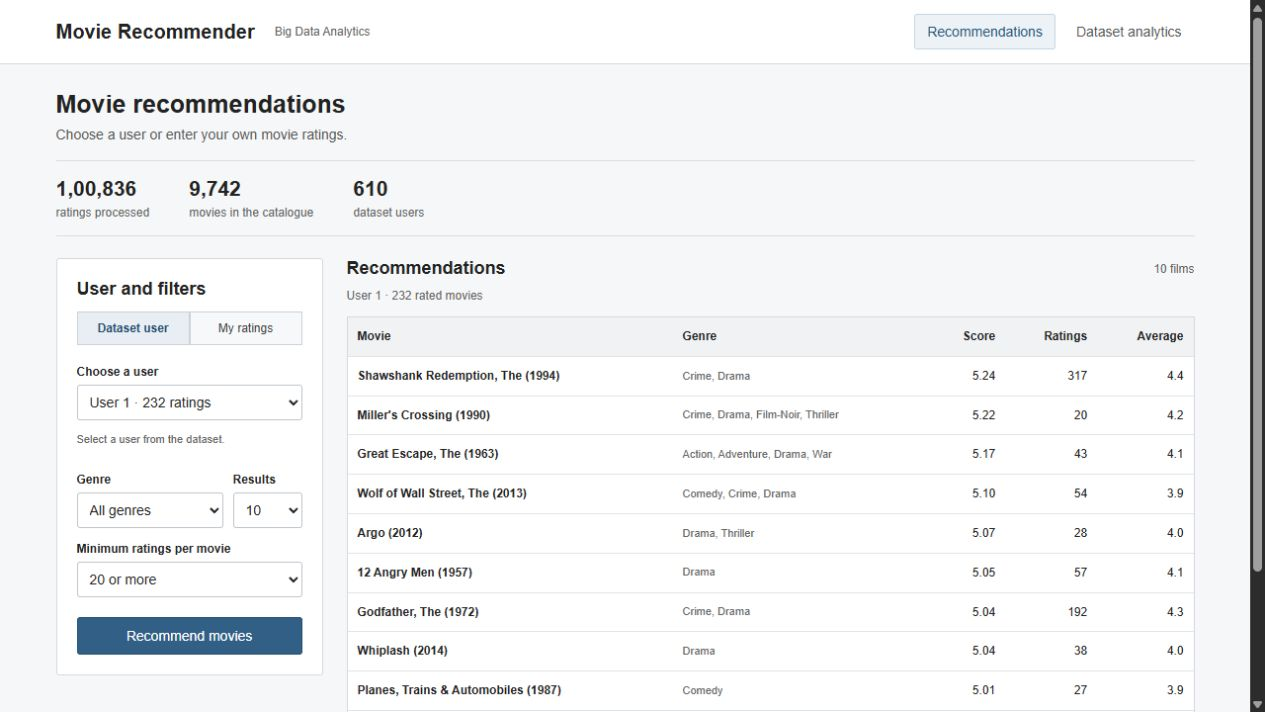
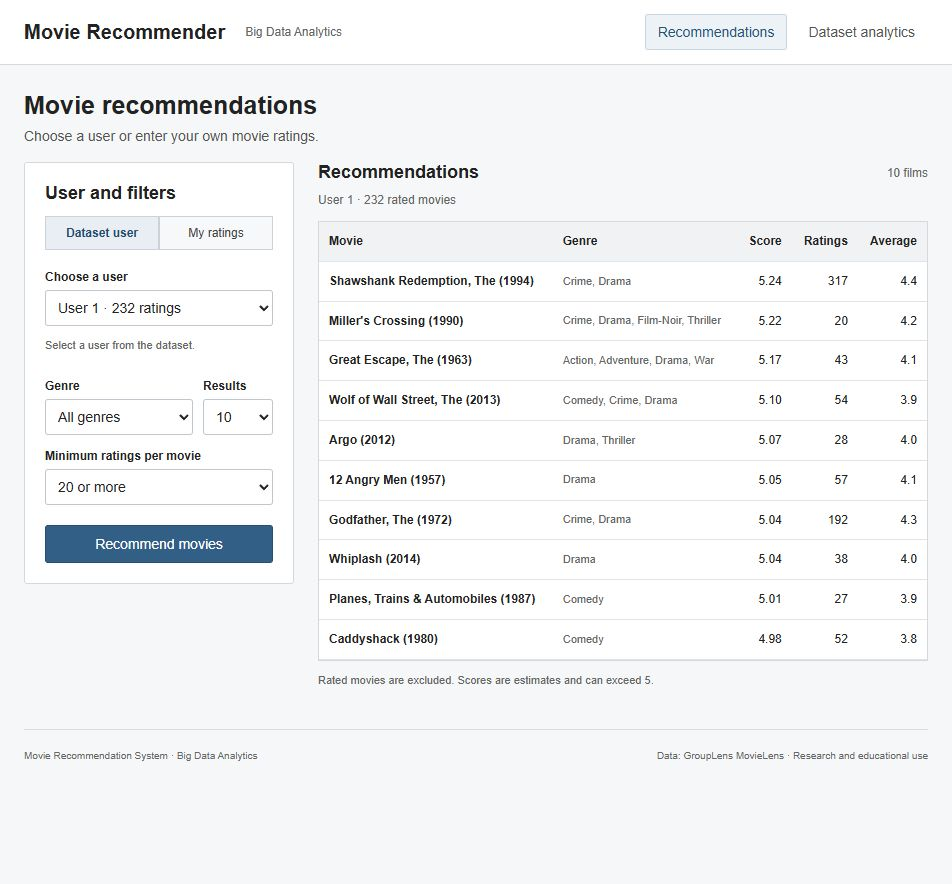
Remove top dataset statistics from recommendations page

diff --git a/web/index.html b/web/index.html
@@ -5,7 +5,6 @@
 <main class="wrap">
 <section id="recommend-view">
   <div class="intro"><h1>Movie recommendations</h1><p>Choose a user or enter your own movie ratings.</p></div>
-  <div class="stats" id="top-stats"><div><strong id="stat-ratings">—</strong><span>ratings processed</span></div><div><strong id="stat-movies">—</strong><span>movies in the catalogue</span></div><div><strong id="stat-users">—</strong><span>dataset users</span></div></div>
   <div class="workspace">
     <aside class="controls"><h2>User and filters</h2><div class="mode-tabs"><button id="existing-mode" class="active">Dataset user</button><button id="profile-mode">My ratings</button></div>
       <div id="existing-controls"><label for="user">Choose a user</label><select id="user" aria-label="Dataset user"></select><p class="hint">Select a user from the dataset.</p></div>

diff --git a/web/app.js b/web/app.js
@@ -57,7 +57,6 @@ function details(id, rows) { $(id).replaceChildren(); rows.forEach(([name,value]
 async function init() {
   try {
     const [summary,users] = await Promise.all([api('/api/summary'),api('/api/users')]), a=summary.analytics,m=summary.metrics;
-    $('stat-ratings').textContent=fmt(a.ratings); $('stat-movies').textContent=fmt(a.movies); $('stat-users').textContent=fmt(a.users);
     users.forEach(u=>{const option=element('option',`User ${u.userId} · ${u.ratingCount} ratings`);option.value=u.userId;$('user').append(option);});
     summary.genres.forEach(g=>{const option=element('option',g);option.value=g;$('genre').append(option);});
     bars('rating-bars',a.ratingDistribution,'count','rating');bars('genre-bars',a.genres.slice(0,10),'count','genre');
